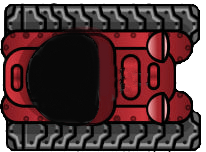
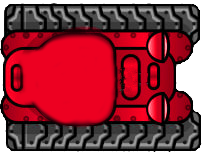
Added different tanks and fixed turret

diff --git a/src/Tank.cpp b/src/Tank.cpp
@@ -8,9 +8,9 @@ Tank::Tank(sf::Vector2f initial_pos, float speed_scaler)
       tank_shape_.setOrigin(50, 50);
       tank_shape_.setSize(sf::Vector2f(100,100));
       tank_shape_.setPosition(initial_pos);
-      turret_shape_.setOrigin(50,50);
+      turret_shape_.setOrigin(36,50);
       turret_shape_.setSize(sf::Vector2f(100,100));
-      turret_shape_.setPosition(tank_shape_.getPosition());
+      turret_shape_.setPosition(tank_shape_.getPosition().x-18,tank_shape_.getPosition().y+2);
   }
 
 
